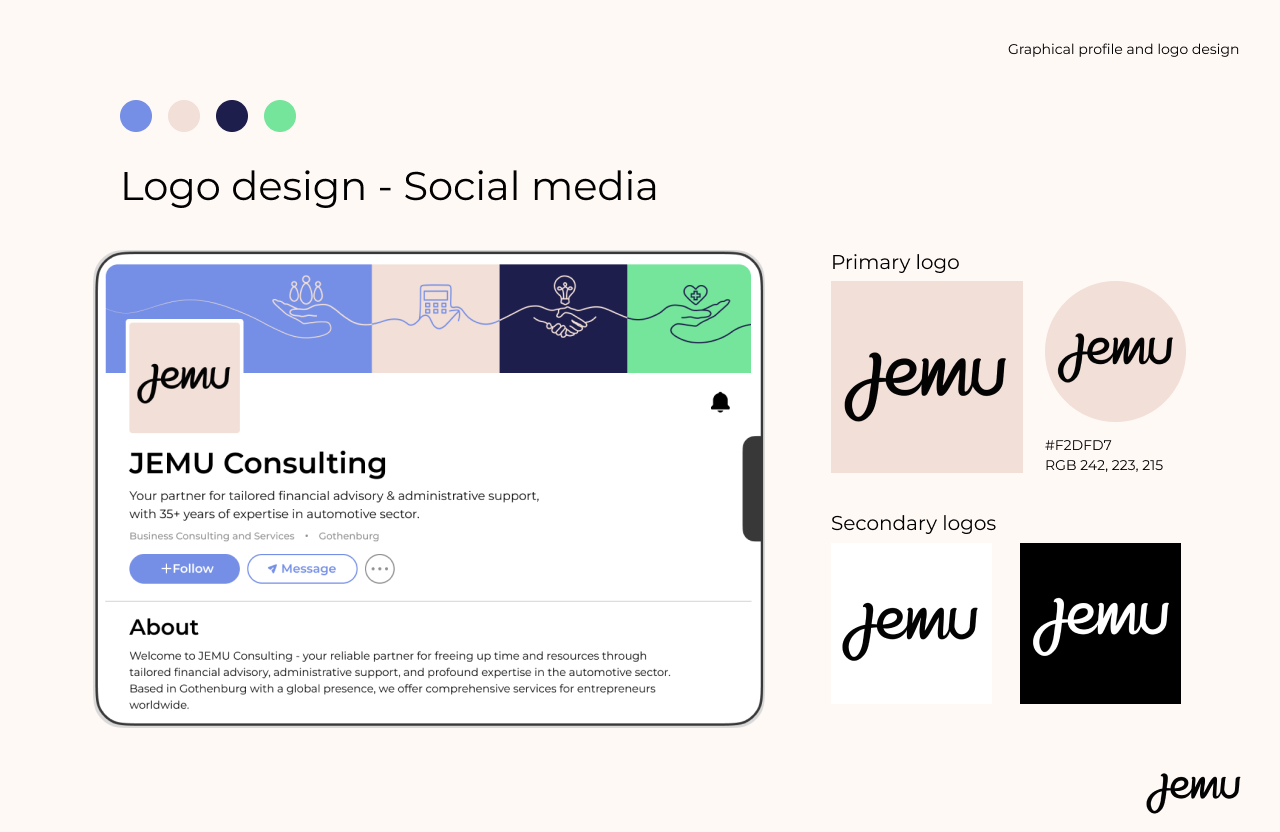
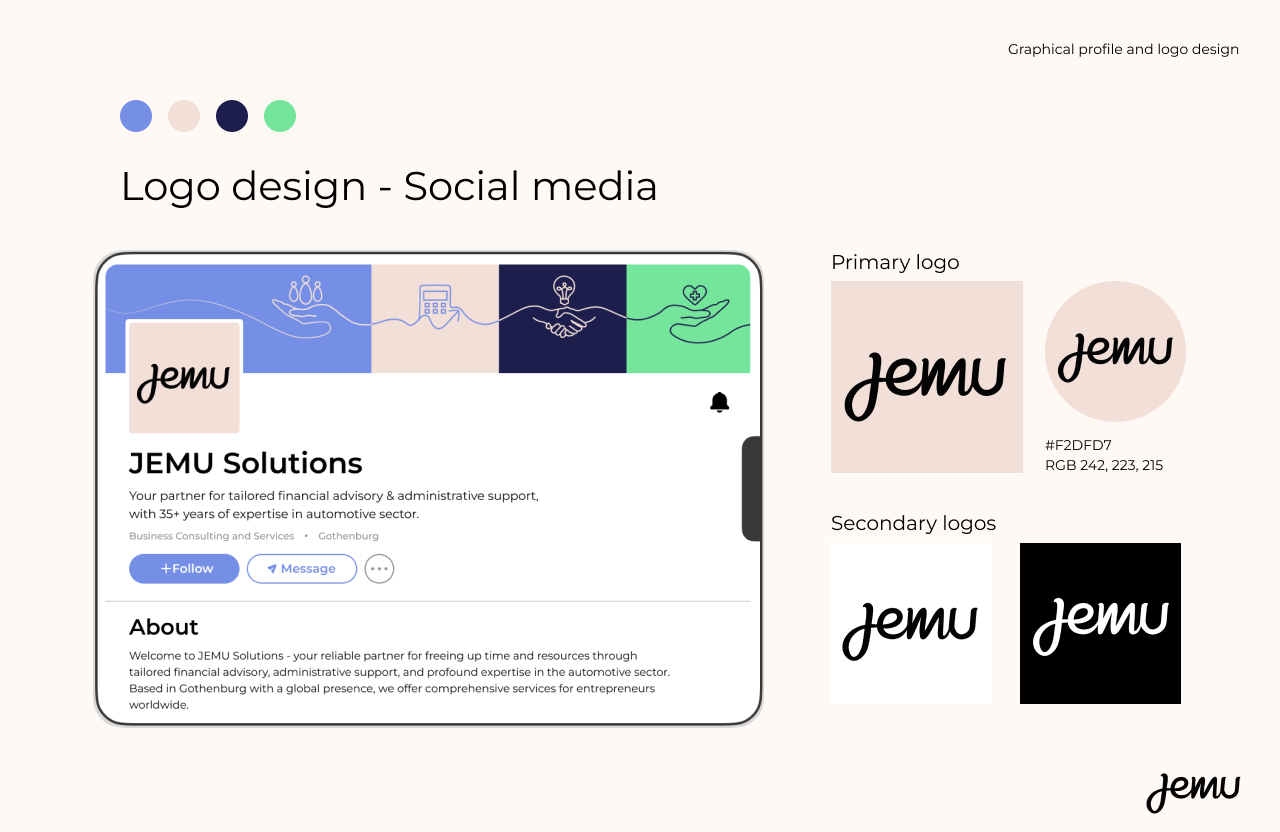
name update

diff --git a/jemu.html b/jemu.html
@@ -14,7 +14,7 @@
     <div class="close-container">
       <span class="close-btn">X</span>
     </div>
-    <h2>JEMU Consulting</h2>
+    <h2>JEMU Solutions</h2>
     <div class="project-details">
       <h4>Branding / Graphic Design / Social Media</h4>
       <h4 class="programs">Figma / Illustrator / Photoshop</h4>
@@ -22,9 +22,9 @@
 
     <div class="project-header">
       <div>
-        <p>In March 2024, I started working together with a <b>consulting company, JEMU Consulting, based in Gothenburg, Sweden</b>. My task included <b>redesigning the logo, creating new designs for branding</b> such as logos for the different branches that they specialize in as well as creating the content such as taking photos of the employees. As of now, the branding primarily extends to their LinkedIn profile and presentations for potential clients, yet they are a growing company.</p>
+        <p>In March 2024, I started working together with a <b>consulting company, JEMU Solutions, based in Gothenburg, Sweden</b>. My task included <b>redesigning the logo, creating new designs for branding</b> such as logos for the different branches that they specialize in as well as creating the content such as taking photos of the employees. As of now, the branding primarily extends to their LinkedIn profile and presentations for potential clients, yet they are a growing company.</p>
         <p>It has been a very fun and eye-opening journey working together with so many professionals and learning about their experiences as well as bonding with their lovely besökshund Jack!</p>
-        <p>Currently, I am also working together with JEMU Consulting’s client <b>UNI5</b>, which is a car racing organization, and I am redesigning their logo and creating other branding materials for promotion.</p>
+        <p>Currently, I am also working together with JEMU Solutions’ client <b>UNI5</b>, which is a car racing organization, and I am redesigning their logo and creating other branding materials for promotion.</p>
       </div>
       <div class="screens-container6" data-cycle="3000">
         <div class="screens">
@@ -74,7 +74,7 @@
     <div>
       <h3>Linkedin</h3>
       <p class="text">On LinkedIn, coming soon, you'll find posts introducing each team member, highlighting their specialties, expertise, and educational backgrounds.</p>
-      <p>LAUNCHING IN JUNE</p>
+      <p>LAUNCHING IN JUNE/JULY</p>
     </div>
     <img class="linkedin-screen" src="./src/jemu/linkedin.png">
     <div class="linkedin-posts">

diff --git a/index.html b/index.html
@@ -62,7 +62,7 @@
                 <div data-tags="graphic art" onclick="loadProjectDetails('jemu.html')">
                     <img src="./src/thumbnails/jemu.png">
                     <span class="thumb-text">
-                        <h2>JEMU Consulting</h2>
+                        <h2>JEMU Solutions</h2>
                         <p><i><b>freelancing</b>/branding</i></p>
                     </span>
                     <h4>2024
